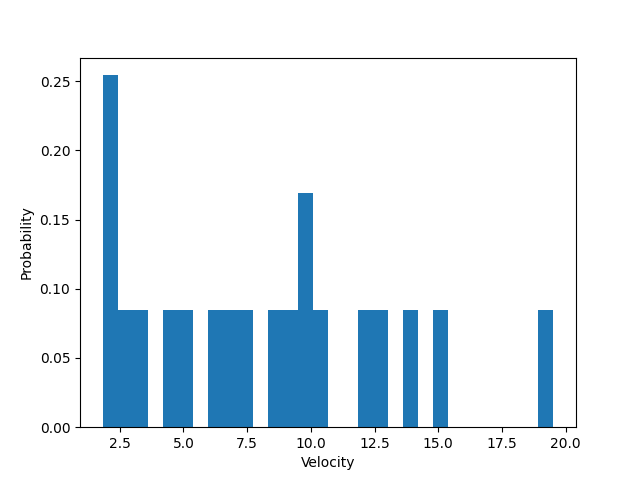
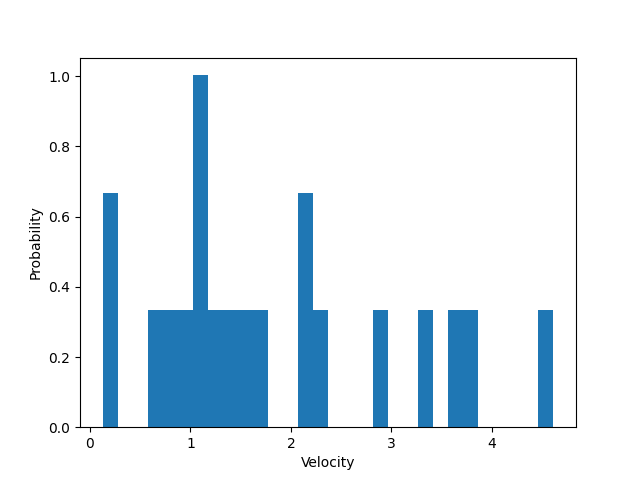
update

diff --git a/Run.py b/Run.py
@@ -3,11 +3,11 @@ import matplotlib.pyplot as plt
 from MD_System_Class import Simulated_System as md
 
 # Name of the log files
-name = "dt005"
+name = "alpha1"
 # Alpha values
 alpha = 1
 # dt values
-delta_t = 0.05
+delta_t = 0.001
 
 
 # Initialise MD system:
